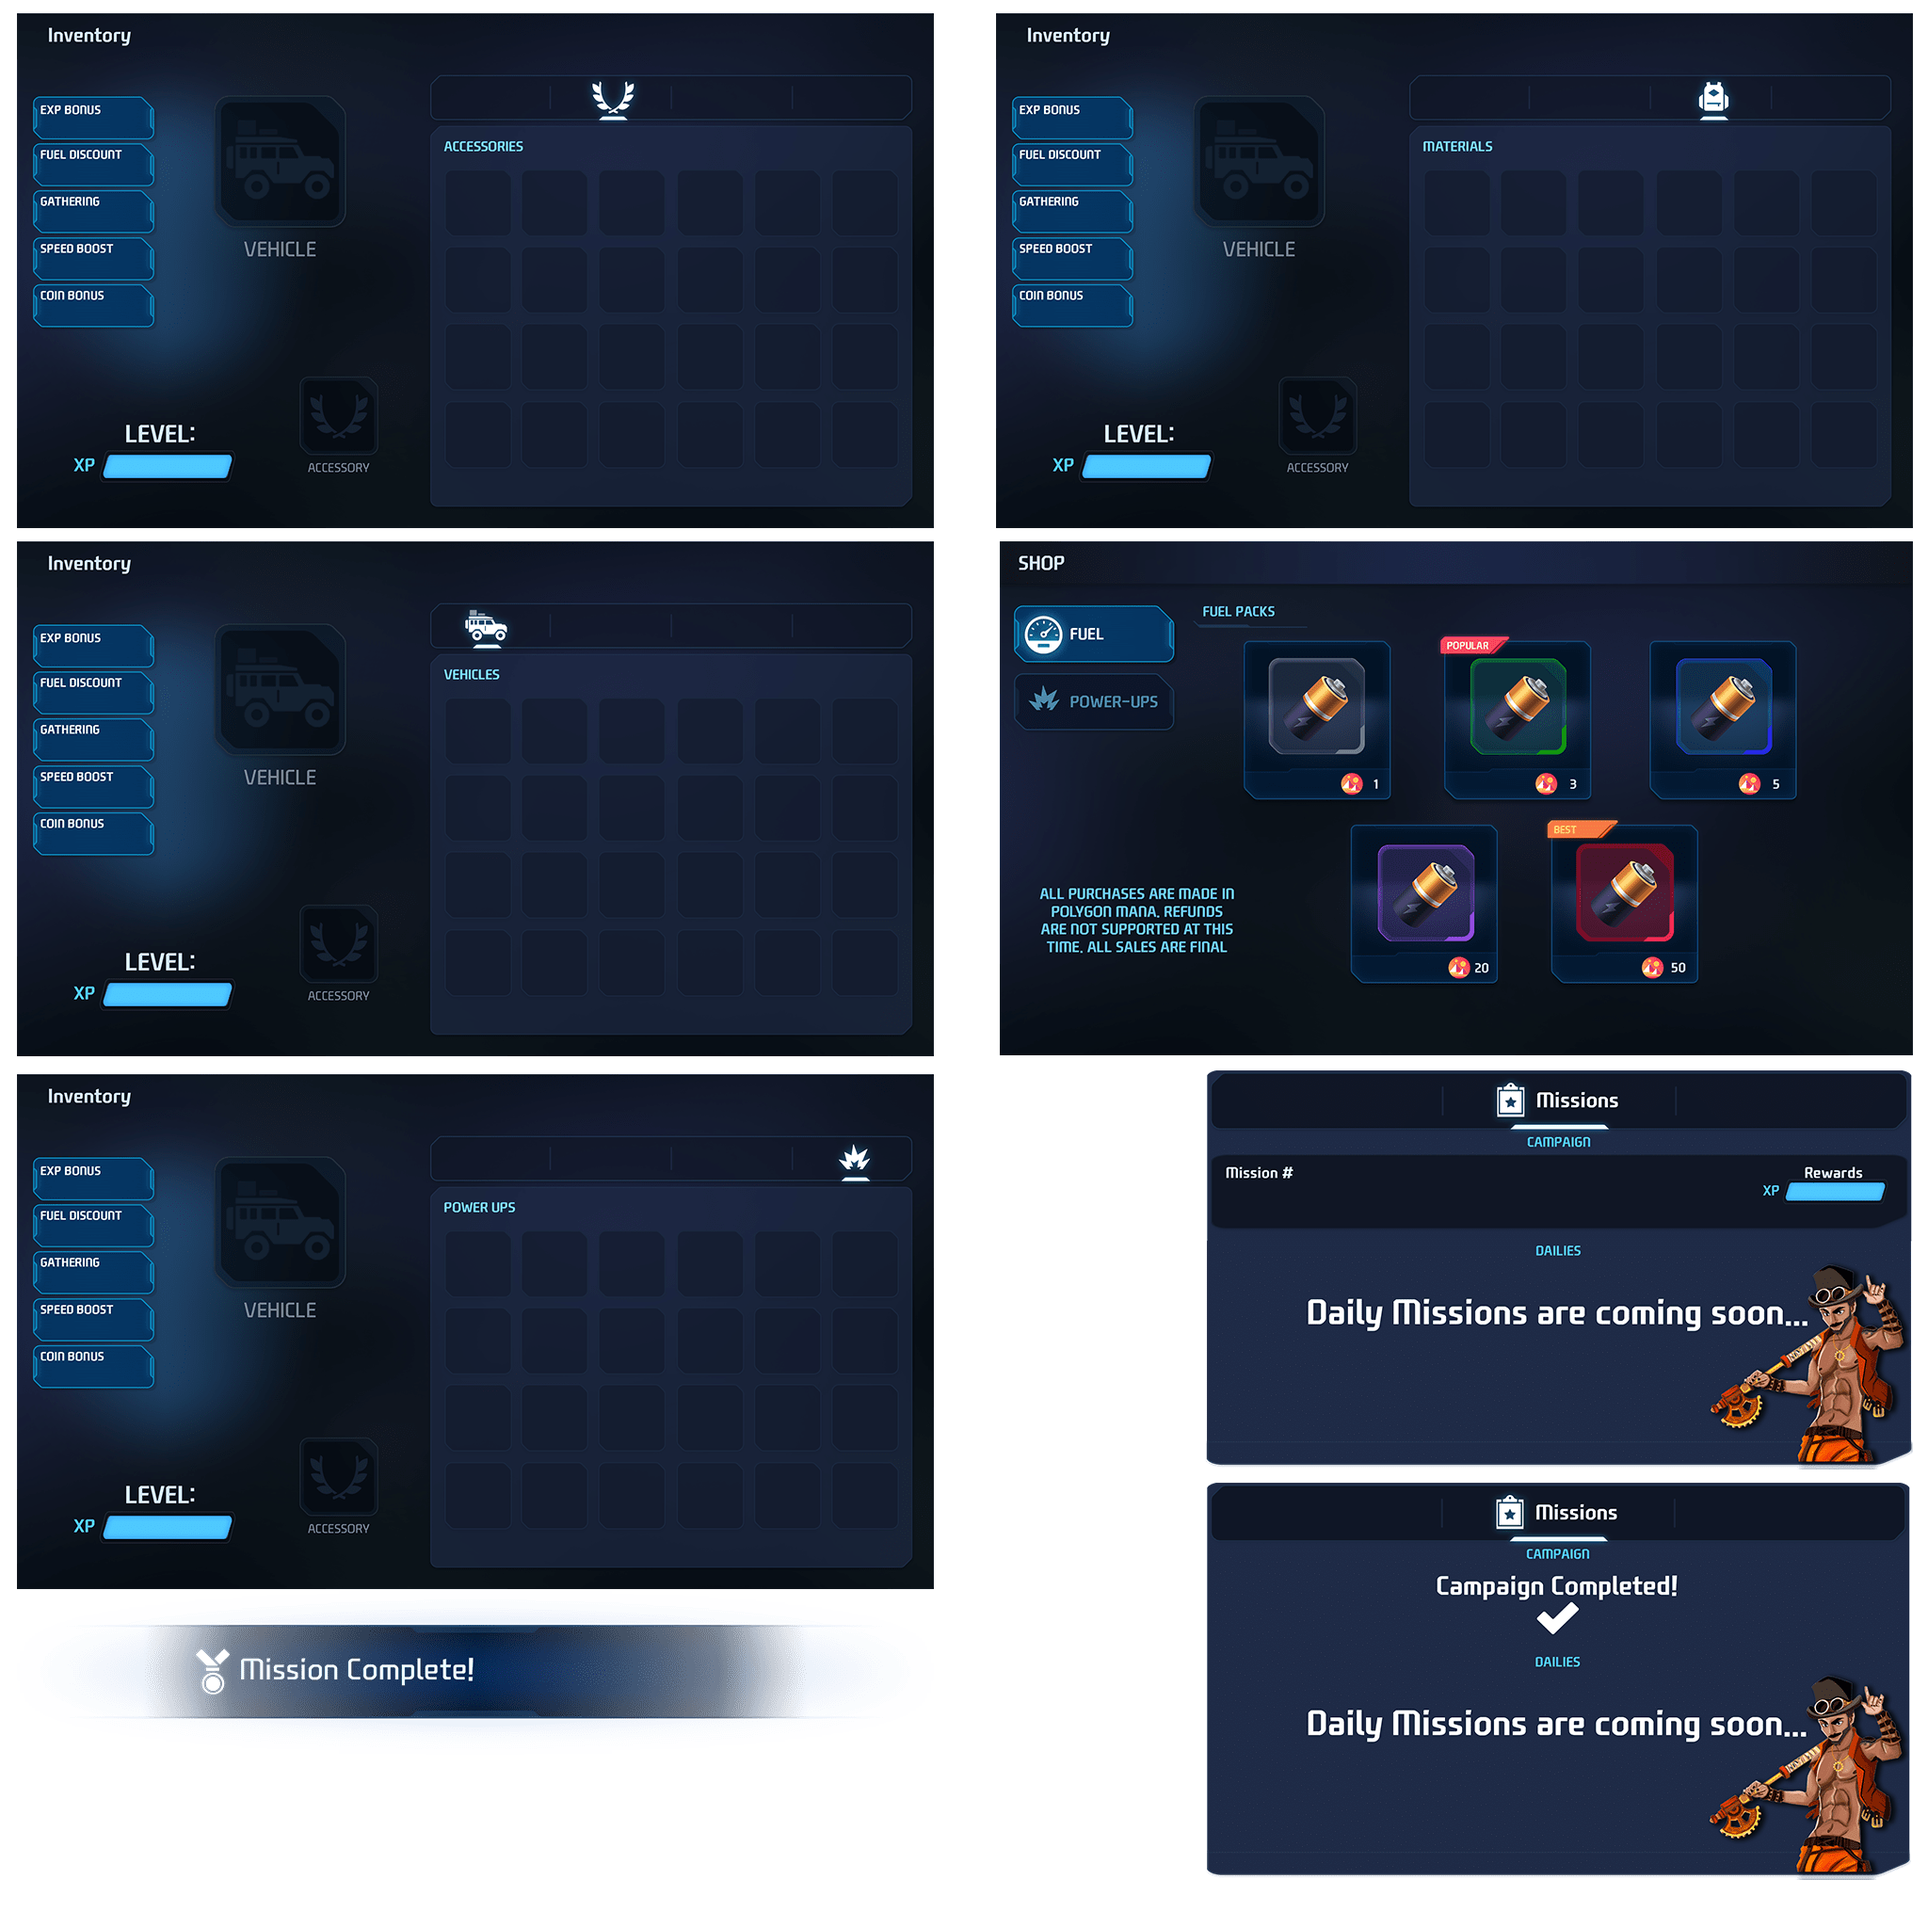
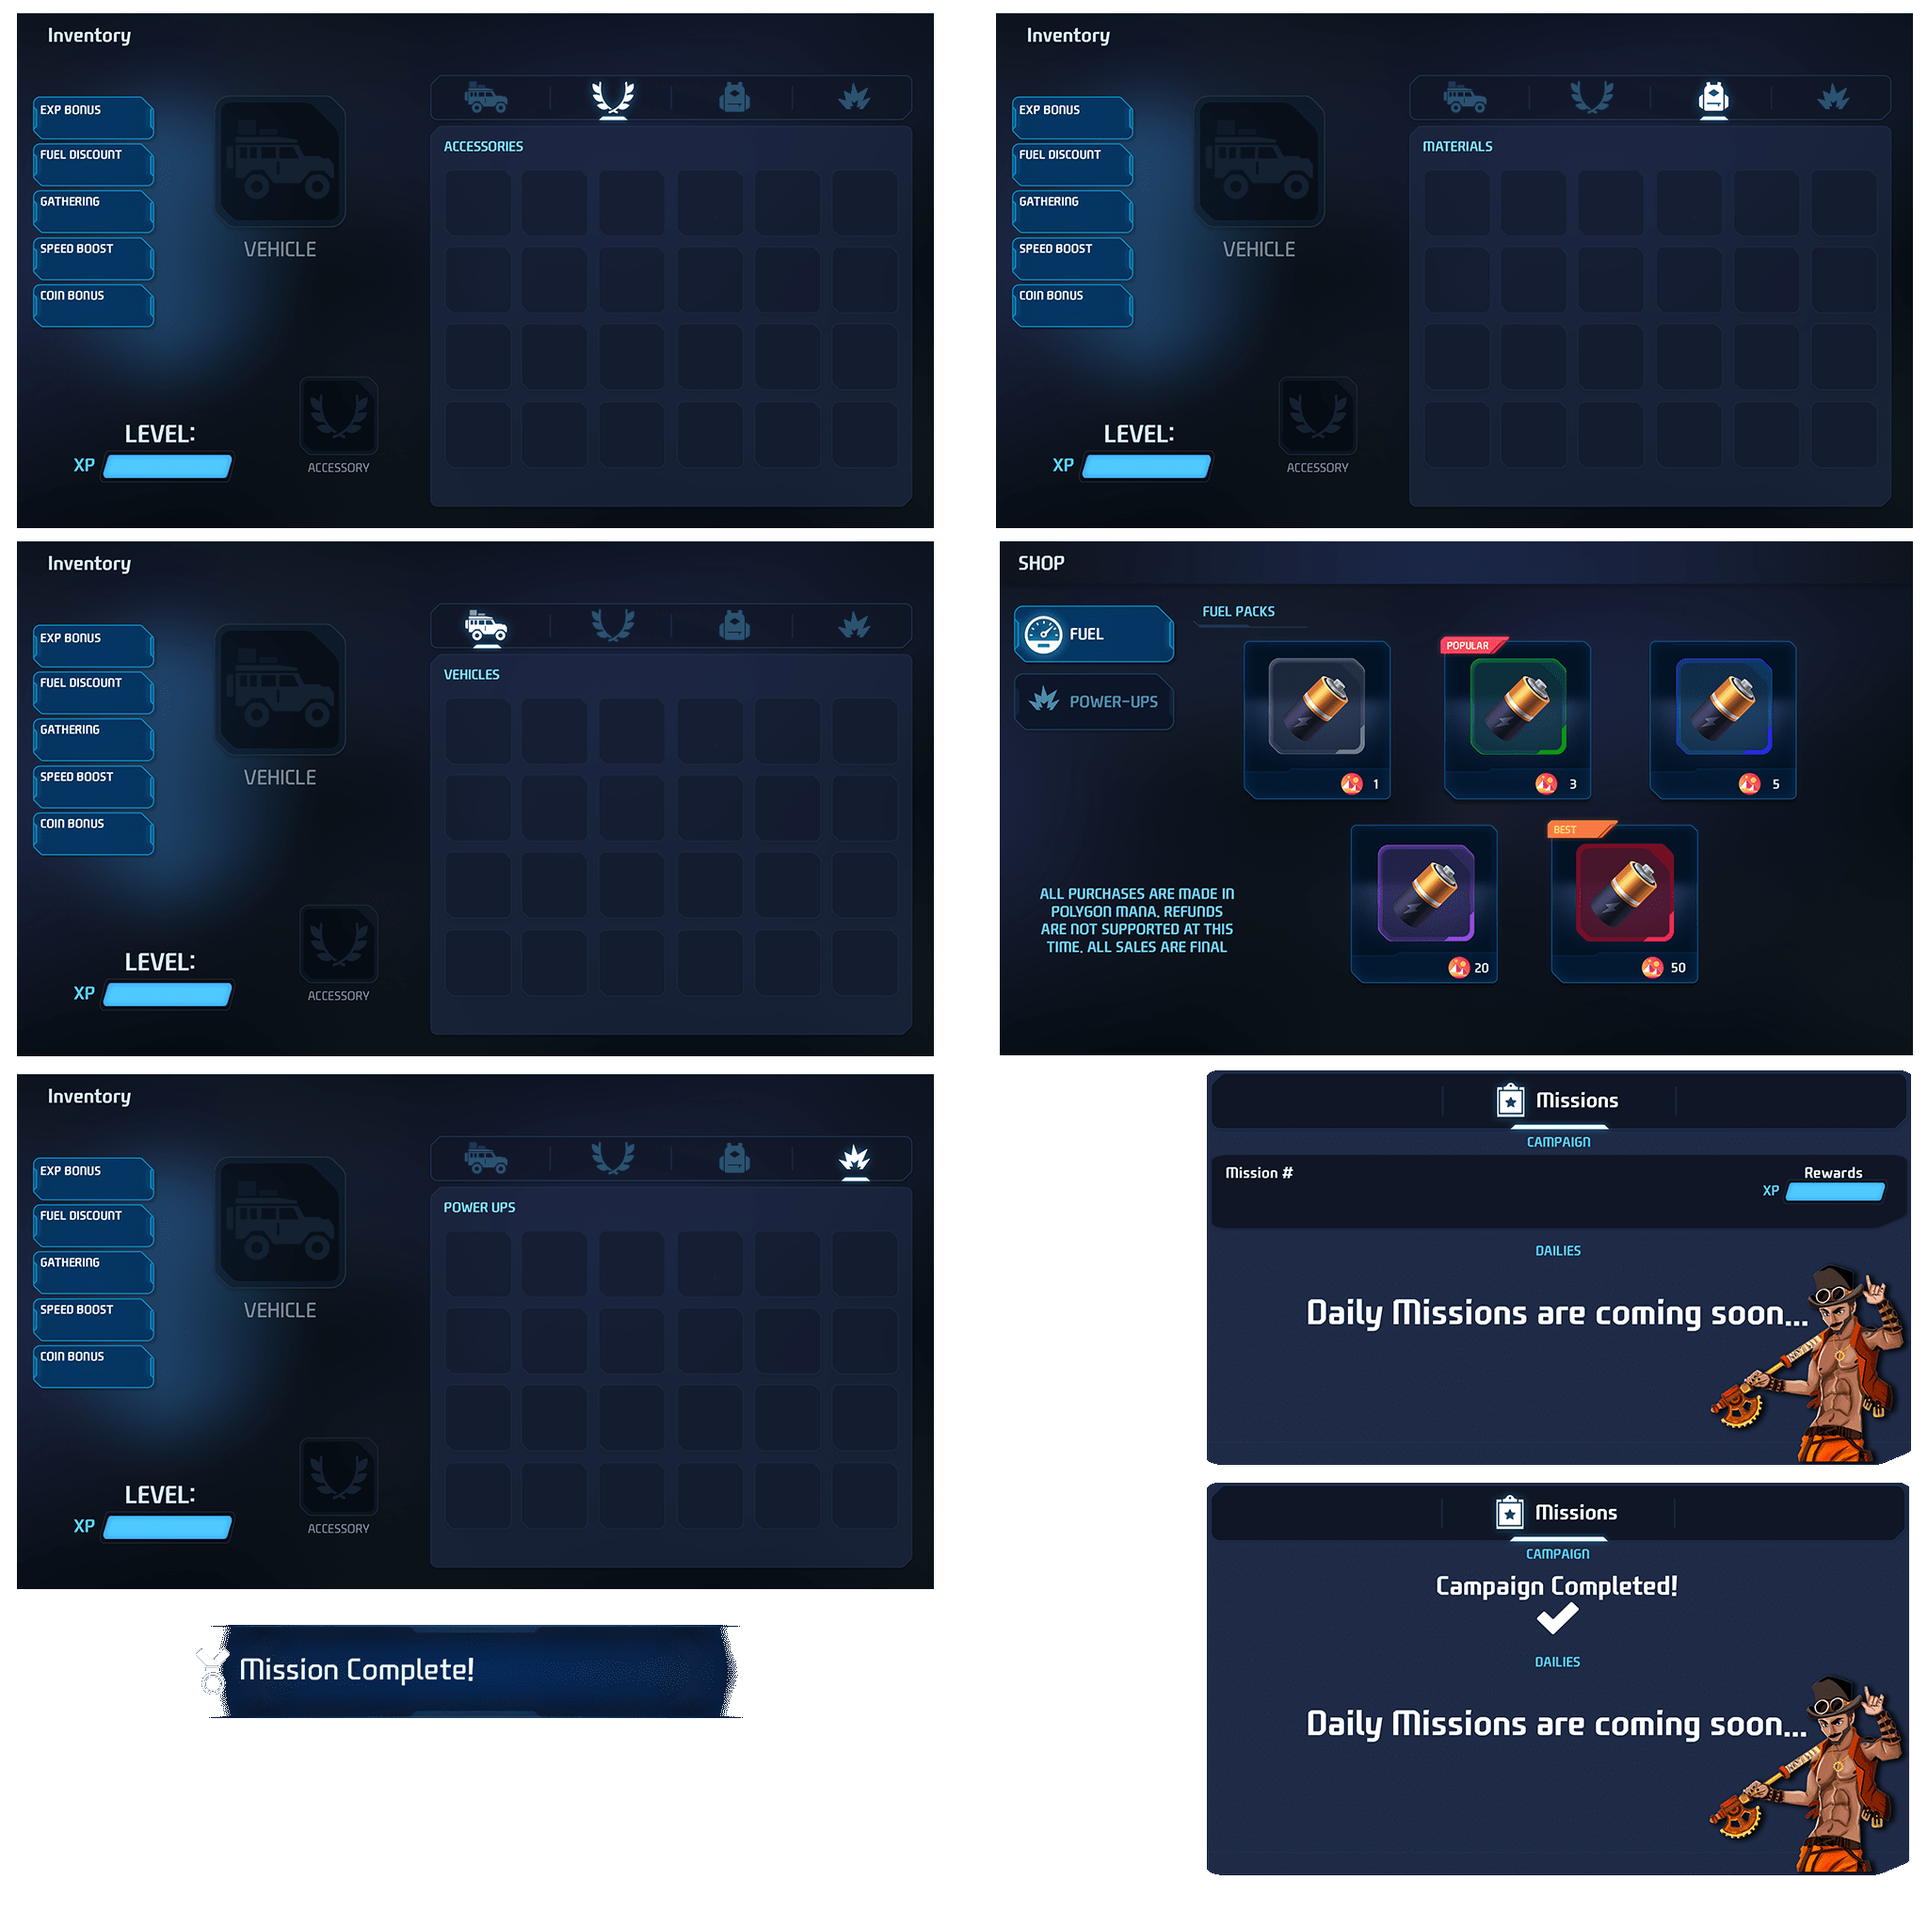
add inventory tabs logic

diff --git a/scene/src/ui/inventory.tsx b/scene/src/ui/inventory.tsx
@@ -10,6 +10,8 @@ import { UiCanvasInformation, engine } from '@dcl/sdk/ecs'
 import { getUvs, type Sprite } from './utils/utils'
 import { Color4 } from '@dcl/sdk/math'
 import { LevelManager } from '../leveling/level-manager'
+import { boardsSprites } from './atlas/boardsAtlas'
+import Canvas from './canvas/Canvas'
 
 const DEBUGGING_UI_INVENTORY: boolean = true
 const DEBUGGING_UI_INVENTORY_VERBOSE: boolean = false
@@ -146,7 +148,7 @@ class UIInteractable {
   }
 }
 export class UIInventoryManager {
-  uiParent: Sprite
+  background: Sprite = boardsSprites.inventoryVehiclesBoardSprite
   uiParentVisible: boolean = false
   uiTextExperience: string = '999999'
   uiTextLevel: string = '999'
@@ -163,14 +165,6 @@ export class UIInventoryManager {
 
   constructor(uiController?: UIController) {
     this.uiController = uiController
-    this.uiParent = {
-      atlasSrc: INVENTORY_TEXTURE_BACKGROUND,
-      atlasSize: { x: 2048, y: 2048 },
-      x: 0,
-      y: 580,
-      w: 1000,
-      h: 550
-    }
     LevelManager.Instance.RegisterUICallbackExperience(
       this.CallbackUpdateExpDisplay
     )
@@ -180,43 +174,97 @@ export class UIInventoryManager {
   }
 
   public DisplayInventory(type: number): void {
-    if (DEBUGGING_UI_INVENTORY)
-      console.log('UI Inventory Manager: redrawing inventory type=' + type)
-
-    //redraw progression display
+   
     this.updateExpDisplay()
     this.updateLevelDisplay()
-    if (DEBUGGING_UI_INVENTORY)
-      console.log('UI Inventory Manager: redrew inventory type=' + type)
+    switch(type) { 
+      case 0: { 
+        this.background = boardsSprites.inventoryVehiclesBoardSprite
+         break; 
+      }
+      case 1: { 
+        this.background = boardsSprites.inventoryAccesoriesBoardSprite
+        break; 
+     }
+     case 2: { 
+      this.background = boardsSprites.inventoryMaterialsBoardSprite
+       break; 
+    }
+    case 3: { 
+      this.background = boardsSprites.inventoryPowerUpsBoardSprite
+      break; 
+   }   
+      default: { 
+        this.background = boardsSprites.inventoryVehiclesBoardSprite
+         break; 
+      } 
+   } 
   }
 
   createUI(): ReactEcs.JSX.Element {
     const canvasInfo = UiCanvasInformation.get(engine.RootEntity)
     return (
-      <UiEntity
-        uiTransform={{
-          flexDirection: 'row',
-          width: canvasInfo.width,
-          height: canvasInfo.height,
-          justifyContent: 'center',
-          positionType: 'absolute',
-          position: { top: '25%', right: '0%' }
-        }}
-      >
-        {/* Ui Parent */}
+      <Canvas uiTransform={{
+        justifyContent: 'center',
+        alignItems:'center'
+      }}>
         <UiEntity
           uiTransform={{
             positionType: 'relative',
-            width: (canvasInfo.height * 1.88) / 1.8,
+            width: canvasInfo.height * 0.55 / this.background.h * this.background.w,
             height: canvasInfo.height * 0.55
           }}
           uiBackground={{
             textureMode: 'stretch',
-            uvs: getUvs(this.uiParent),
-            texture: { src: this.uiParent.atlasSrc }
+            uvs: getUvs(this.background),
+            texture: { src: this.background.atlasSrc }
           }}
-          onMouseDown={() => {}}
         >
+          {/* Navbar */}
+          <UiEntity
+            uiTransform={{
+            flexDirection:'row',
+              positionType: 'absolute',
+            position:{top:'12%', right:'2%'},
+            width: '53%',
+            height: '10%'
+          }}
+          
+          >
+            <UiEntity
+          uiTransform={{
+              positionType: 'relative',
+            width: '25%',
+            height: '100%'
+              }}
+              onMouseDown={()=>{this.DisplayInventory(0)}}
+            />
+            <UiEntity
+          uiTransform={{
+              positionType: 'relative',
+            width: '25%',
+            height: '100%'
+              }}
+              onMouseDown={()=>{this.DisplayInventory(1)}}
+            />
+            <UiEntity
+          uiTransform={{
+              positionType: 'relative',
+            width: '25%',
+            height: '100%'
+              }}
+              onMouseDown={()=>{this.DisplayInventory(2)}}
+            />
+            <UiEntity
+          uiTransform={{
+              positionType: 'relative',
+            width: '25%',
+            height: '100%'
+              }}
+              onMouseDown={()=>{this.DisplayInventory(3)}}
+          />
+
+        </UiEntity>
           {/* Experience */}
           <Label
             uiTransform={{
@@ -242,7 +290,7 @@ export class UIInventoryManager {
             textAlign="bottom-left"
           />
         </UiEntity>
-      </UiEntity>
+        </Canvas>
     )
   }
 

diff --git a/scene/src/ui/atlas/boardsAtlas.ts b/scene/src/ui/atlas/boardsAtlas.ts
@@ -2,6 +2,8 @@ import { type Sprite } from '../utils/utils'
 
 const board2Atlas: string = 'assets/images/uiAtlas/board2Atlas.png'
 const board2AtlasSize: { x: number; y: number } = { x: 2048, y: 2048 }
+const board3Atlas: string = 'assets/images/uiAtlas/board3Atlas.png'
+const board3AtlasSize: { x: number; y: number } = { x: 2048, y: 2048 }
 
 export const boardsSprites: Record<string, Sprite> = {
   rewardBoardSprite: {
@@ -11,5 +13,37 @@ export const boardsSprites: Record<string, Sprite> = {
     y: 1383,
     w: 718,
     h: 665
+  },
+  inventoryAccesoriesBoardSprite: {
+    atlasSrc: board3Atlas,
+    atlasSize: board3AtlasSize,
+    x: 18,
+    y: 14,
+    w: 975,
+    h: 547
+  },
+  inventoryVehiclesBoardSprite: {
+    atlasSrc: board3Atlas,
+    atlasSize: board3AtlasSize,
+    x: 18,
+    y: 575,
+    w: 975,
+    h: 547
+  },
+  inventoryPowerUpsBoardSprite: {
+    atlasSrc: board3Atlas,
+    atlasSize: board3AtlasSize,
+    x: 18,
+    y: 1141,
+    w: 975,
+    h: 547
+  },
+  inventoryMaterialsBoardSprite: {
+    atlasSrc: board3Atlas,
+    atlasSize: board3AtlasSize,
+    x: 1058,
+    y: 14,
+    w: 975,
+    h: 547
   }
 }

diff --git a/scene/src/ui/reward.tsx b/scene/src/ui/reward.tsx
@@ -53,10 +53,6 @@ export class Reward {
     // Player.getValueAdjuster().sprintCoinsQtyCollected = 0
     // PowerUpsInv.powerUpMgr.reset()
 
-    // instance.setInstance('main')
-    // cleanUpScene()
-    // // SCENE_MANAGER.disableScene("base_main")
-
     this.uiController.loader.showLoader()
     // renderMainInstance()
     void movePlayerTo({
